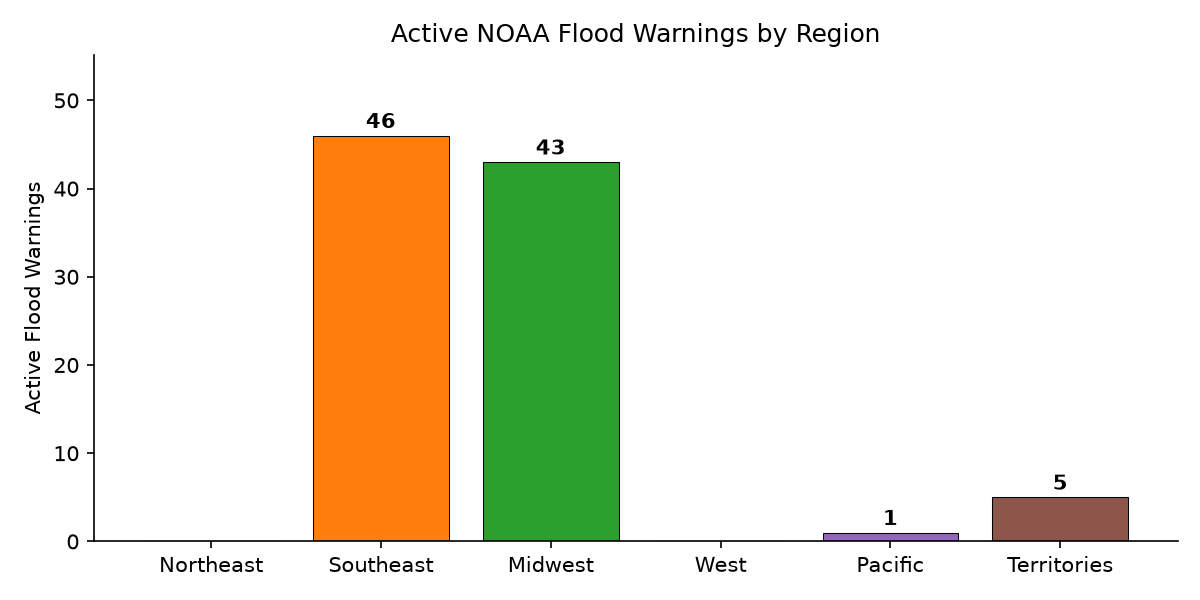
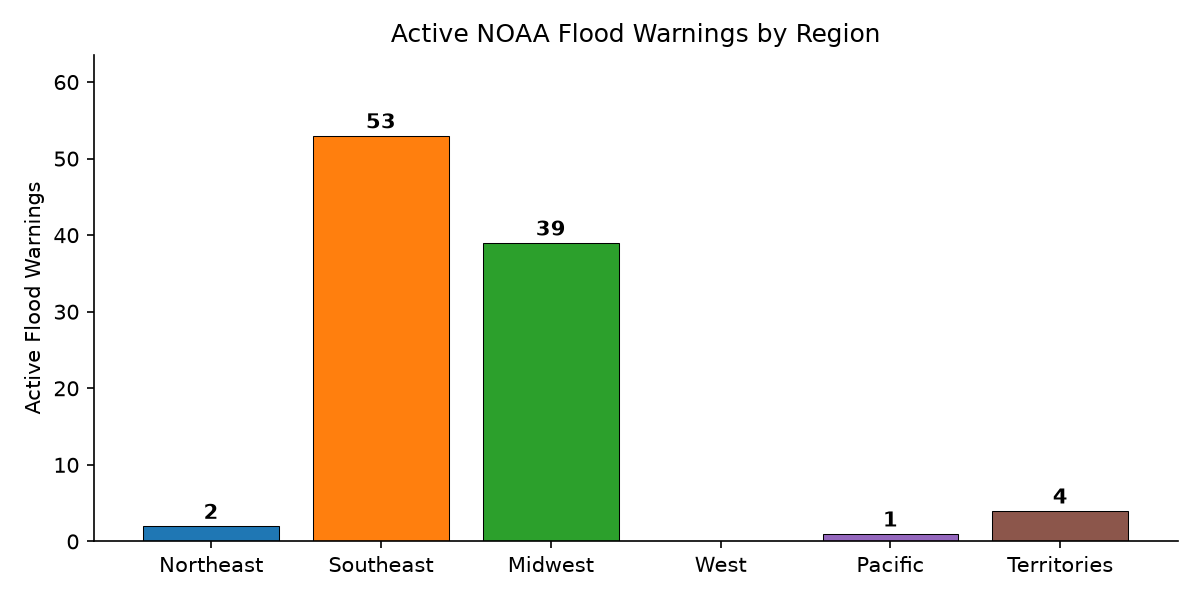
daily: update NWM flood forecast coverage summary

diff --git a/docs/flood-monitor.md b/docs/flood-monitor.md
@@ -1,15 +1,15 @@
 # 🌊 Flood Warning Monitor
 
 > Auto-generated by [daily-update workflow](../.github/workflows/daily-update.yml).
-> **Last checked:** 2026-06-18 09:56 UTC
+> **Last checked:** 2026-06-19 09:59 UTC
 
 ## Summary
 
 | Metric | Value |
 |--------|-------|
-| Active Flood Warnings | **83** |
+| Active Flood Warnings | **87** |
 | NWM Operational Status | Degraded (HTTP 400) |
-| States Affected | 11 |
+| States Affected | 13 |
 
 ## Regional Distribution
 
@@ -17,27 +17,27 @@
 
 | Region | Warnings |
 |--------|----------|
-| Northeast | 0 |
-| Southeast | 46 |
-| Midwest | 43 |
+| Northeast | 2 |
+| Southeast | 53 |
+| Midwest | 39 |
 | West | 0 |
 | Pacific | 1 |
-| Territories | 5 |
+| Territories | 4 |
 
 ## Top States
 
 | State | Warnings |
 |-------|----------|
-| LA | 25 |
+| LA | 20 |
+| MS | 18 |
 | IL | 17 |
-| MS | 13 |
-| IN | 11 |
-| MO | 7 |
-| IA | 7 |
-| TX | 5 |
-| AL | 4 |
-| FL | 4 |
-| OH | 1 |
+| IN | 12 |
+| AL | 10 |
+| IA | 6 |
+| FL | 5 |
+| TX | 4 |
+| VT | 2 |
+| MO | 2 |
 
 ---
 *Data source: [NOAA Weather Alerts API](https://api.weather.gov/alerts/active?event=Flood+Warning)*
